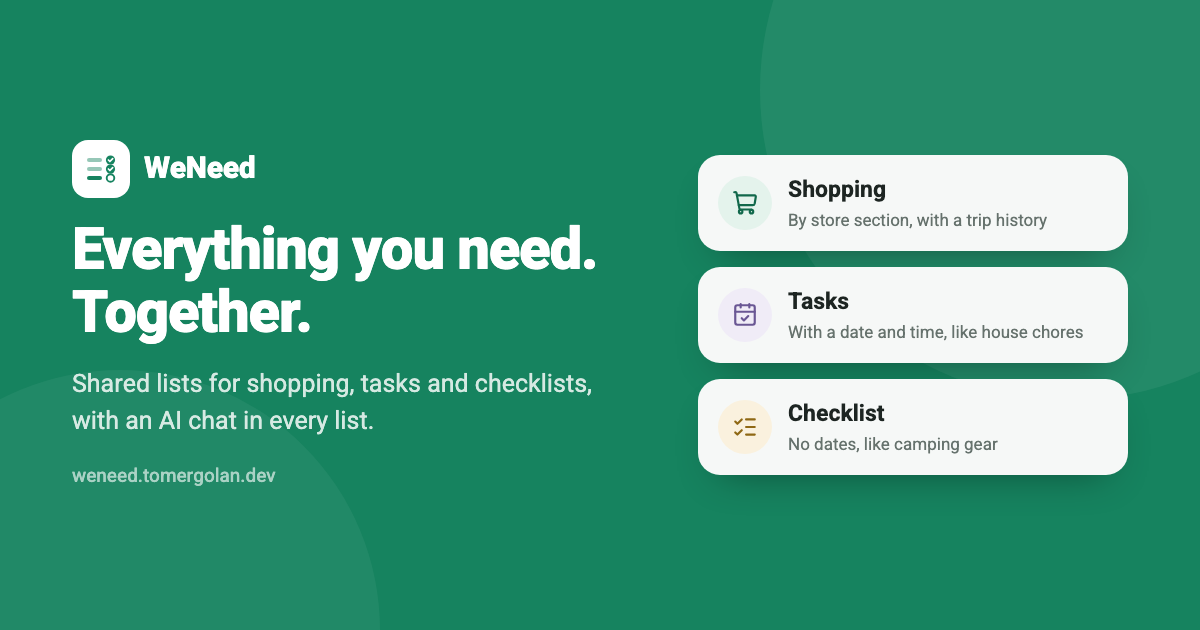
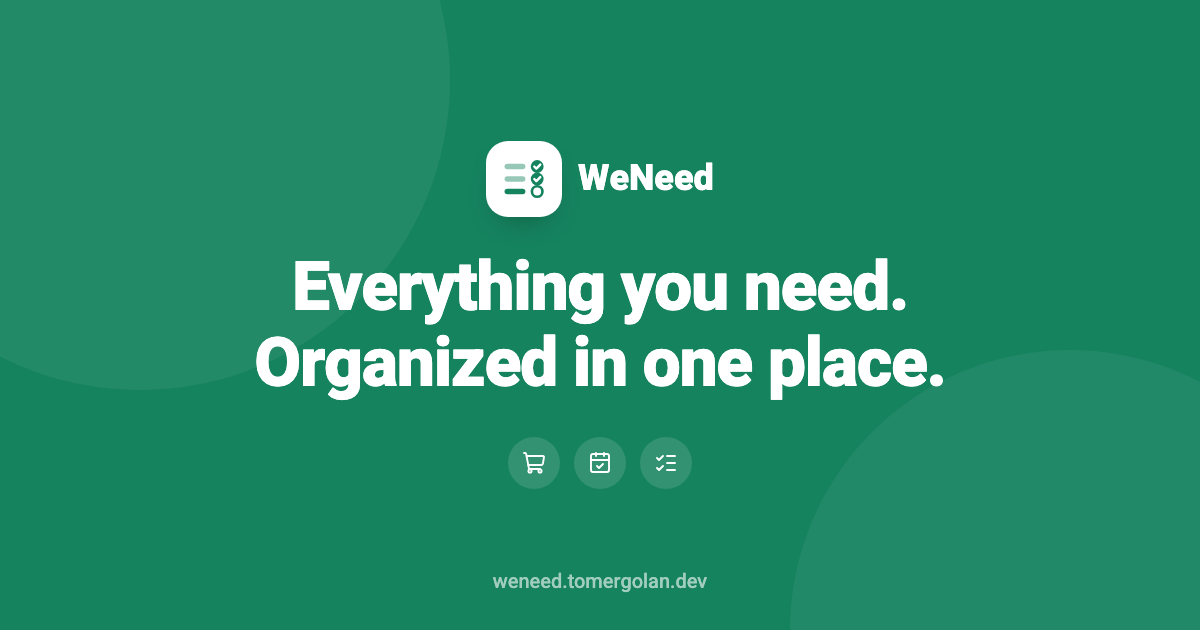
New slogan: everything you need, organized in one place
The slogan now reads "כל מה שצריך. מסודר במקום אחד." on the sign-in
screen, in the site description and on the share cover. The cover is
now minimal: the icon, the slogan and three small icons, centered.

diff --git a/docs/spec.md b/docs/spec.md
@@ -173,9 +173,9 @@ We Need is also a portfolio project, so it includes a public demo.
   - The paused WhatsApp bot stays Hebrew only.
 - Branding (decided 2026-11-17):
   - Name: **WeNeed**, in English only, everywhere (browser tab, home screen, emails).
-  - Slogan: "כל מה שצריך. ביחד."
+  - Slogan: "כל מה שצריך. מסודר במקום אחד." (English: "Everything you need. Organized in one place."; changed 2026-11-19 from "כל מה שצריך. ביחד."). It appears on the sign-in screen, in the site description and on the share cover.
   - Icon: a green tile with three list rows, the first two checked (`src/app/icon.svg`; PNGs for phones in `public/` and `src/app/apple-icon.png`).
-  - Share cover (`public/og.png`, `public/og-en.png`, 1200×630), redesigned 2026-11-19 after the wide sign-in panel: brand green with soft circles, the icon and name, the slogan as the headline, the one-line pitch and the address, beside three cards for the kinds of lists. The image URL carries `?v=` so apps that cached an old cover fetch the new one.
+  - Share cover (`public/og.png`, `public/og-en.png`, 1200×630), redesigned 2026-11-19: minimal, in brand green with soft circles; centered, the icon and name, the slogan as the headline, three small icons for the kinds of lists, and the address at the bottom. The image URL carries `?v=` so apps that cached an old cover fetch the new one.
   - Each kind of list has its own icon: a cart for shopping, a calendar with a check for tasks (they have dates), a checked list for checklists.
 
 ## Domain and hosting
